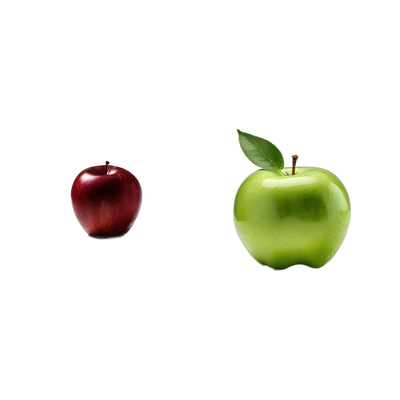
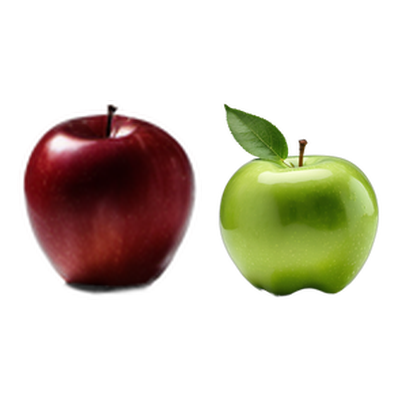
修正：手機左右滑動時右側欄位蓋住圖片欄（提高凍結欄 z-index）＋蘋果靠近不重疊＋西瓜三樣靠近排列

Changed region(s): [[0.06, 0.24, 0.51, 0.75], [0.54, 0.24, 0.96, 0.75]]

diff --git a/index.html b/index.html
@@ -23,15 +23,16 @@ th{background:#2e7d32;color:#fff;padding:10px 16px;font-size:13px;position:stick
 th.sub{background:#66bb6a;font-size:11px;font-weight:400;top:38px;z-index:2}
 td{padding:8px 16px;border-bottom:1px solid #eaf4ec;text-align:center;vertical-align:middle;background:#fff;white-space:nowrap}
 tr:nth-child(even) td{background:#f7fcf8}
-td.group{border-right:1px solid #edf7ef}
+td.group{border-right:1px solid #edf7ef;position:relative;z-index:0}
 /* 語言之間的粗分隔線 */
 .gsep{border-left:3px solid #a5d6a7!important}
 th.gsep{border-left:3px solid #14532d!important}
 td.first{border-right:3px solid #a5d6a7}
 /* 凍結：左邊第一欄（圖片＋詞）不動 */
 td.first,th:first-child{position:sticky;left:0;padding-left:10px;padding-right:10px;box-shadow:2px 0 5px rgba(30,90,50,.08)}
-td.first{background:#e8f5e9!important;font-weight:600;min-width:104px;z-index:1}
-thead th:first-child{z-index:4;background:#2e7d32;color:#fff;text-align:center}
+td.first{background:#e8f5e9!important;font-weight:600;min-width:104px;z-index:5}
+thead th:first-child{z-index:8;background:#2e7d32;color:#fff;text-align:center}
+.tablewrap{isolation:isolate}
 /* 圖片欄（凍結） */
 .imgcol{width:100px;min-width:100px;padding:4px!important}
 .thumb{display:inline-flex;align-items:center;justify-content:center;width:86px;height:86px;

diff --git a/t/五官.html b/t/五官.html
@@ -23,15 +23,16 @@ th{background:#2e7d32;color:#fff;padding:10px 16px;font-size:13px;position:stick
 th.sub{background:#66bb6a;font-size:11px;font-weight:400;top:38px;z-index:2}
 td{padding:8px 16px;border-bottom:1px solid #eaf4ec;text-align:center;vertical-align:middle;background:#fff;white-space:nowrap}
 tr:nth-child(even) td{background:#f7fcf8}
-td.group{border-right:1px solid #edf7ef}
+td.group{border-right:1px solid #edf7ef;position:relative;z-index:0}
 /* 語言之間的粗分隔線 */
 .gsep{border-left:3px solid #a5d6a7!important}
 th.gsep{border-left:3px solid #14532d!important}
 td.first{border-right:3px solid #a5d6a7}
 /* 凍結：左邊第一欄（圖片＋詞）不動 */
 td.first,th:first-child{position:sticky;left:0;padding-left:10px;padding-right:10px;box-shadow:2px 0 5px rgba(30,90,50,.08)}
-td.first{background:#e8f5e9!important;font-weight:600;min-width:104px;z-index:1}
-thead th:first-child{z-index:4;background:#2e7d32;color:#fff;text-align:center}
+td.first{background:#e8f5e9!important;font-weight:600;min-width:104px;z-index:5}
+thead th:first-child{z-index:8;background:#2e7d32;color:#fff;text-align:center}
+.tablewrap{isolation:isolate}
 /* 圖片欄（凍結） */
 .imgcol{width:100px;min-width:100px;padding:4px!important}
 .thumb{display:inline-flex;align-items:center;justify-content:center;width:86px;height:86px;

diff --git a/t/交通工具.html b/t/交通工具.html
@@ -23,15 +23,16 @@ th{background:#2e7d32;color:#fff;padding:10px 16px;font-size:13px;position:stick
 th.sub{background:#66bb6a;font-size:11px;font-weight:400;top:38px;z-index:2}
 td{padding:8px 16px;border-bottom:1px solid #eaf4ec;text-align:center;vertical-align:middle;background:#fff;white-space:nowrap}
 tr:nth-child(even) td{background:#f7fcf8}
-td.group{border-right:1px solid #edf7ef}
+td.group{border-right:1px solid #edf7ef;position:relative;z-index:0}
 /* 語言之間的粗分隔線 */
 .gsep{border-left:3px solid #a5d6a7!important}
 th.gsep{border-left:3px solid #14532d!important}
 td.first{border-right:3px solid #a5d6a7}
 /* 凍結：左邊第一欄（圖片＋詞）不動 */
 td.first,th:first-child{position:sticky;left:0;padding-left:10px;padding-right:10px;box-shadow:2px 0 5px rgba(30,90,50,.08)}
-td.first{background:#e8f5e9!important;font-weight:600;min-width:104px;z-index:1}
-thead th:first-child{z-index:4;background:#2e7d32;color:#fff;text-align:center}
+td.first{background:#e8f5e9!important;font-weight:600;min-width:104px;z-index:5}
+thead th:first-child{z-index:8;background:#2e7d32;color:#fff;text-align:center}
+.tablewrap{isolation:isolate}
 /* 圖片欄（凍結） */
 .imgcol{width:100px;min-width:100px;padding:4px!important}
 .thumb{display:inline-flex;align-items:center;justify-content:center;width:86px;height:86px;

diff --git a/t/公共設施.html b/t/公共設施.html
@@ -23,15 +23,16 @@ th{background:#2e7d32;color:#fff;padding:10px 16px;font-size:13px;position:stick
 th.sub{background:#66bb6a;font-size:11px;font-weight:400;top:38px;z-index:2}
 td{padding:8px 16px;border-bottom:1px solid #eaf4ec;text-align:center;vertical-align:middle;background:#fff;white-space:nowrap}
 tr:nth-child(even) td{background:#f7fcf8}
-td.group{border-right:1px solid #edf7ef}
+td.group{border-right:1px solid #edf7ef;position:relative;z-index:0}
 /* 語言之間的粗分隔線 */
 .gsep{border-left:3px solid #a5d6a7!important}
 th.gsep{border-left:3px solid #14532d!important}
 td.first{border-right:3px solid #a5d6a7}
 /* 凍結：左邊第一欄（圖片＋詞）不動 */
 td.first,th:first-child{position:sticky;left:0;padding-left:10px;padding-right:10px;box-shadow:2px 0 5px rgba(30,90,50,.08)}
-td.first{background:#e8f5e9!important;font-weight:600;min-width:104px;z-index:1}
-thead th:first-child{z-index:4;background:#2e7d32;color:#fff;text-align:center}
+td.first{background:#e8f5e9!important;font-weight:600;min-width:104px;z-index:5}
+thead th:first-child{z-index:8;background:#2e7d32;color:#fff;text-align:center}
+.tablewrap{isolation:isolate}
 /* 圖片欄（凍結） */
 .imgcol{width:100px;min-width:100px;padding:4px!important}
 .thumb{display:inline-flex;align-items:center;justify-content:center;width:86px;height:86px;

diff --git a/t/動物.html b/t/動物.html
@@ -23,15 +23,16 @@ th{background:#2e7d32;color:#fff;padding:10px 16px;font-size:13px;position:stick
 th.sub{background:#66bb6a;font-size:11px;font-weight:400;top:38px;z-index:2}
 td{padding:8px 16px;border-bottom:1px solid #eaf4ec;text-align:center;vertical-align:middle;background:#fff;white-space:nowrap}
 tr:nth-child(even) td{background:#f7fcf8}
-td.group{border-right:1px solid #edf7ef}
+td.group{border-right:1px solid #edf7ef;position:relative;z-index:0}
 /* 語言之間的粗分隔線 */
 .gsep{border-left:3px solid #a5d6a7!important}
 th.gsep{border-left:3px solid #14532d!important}
 td.first{border-right:3px solid #a5d6a7}
 /* 凍結：左邊第一欄（圖片＋詞）不動 */
 td.first,th:first-child{position:sticky;left:0;padding-left:10px;padding-right:10px;box-shadow:2px 0 5px rgba(30,90,50,.08)}
-td.first{background:#e8f5e9!important;font-weight:600;min-width:104px;z-index:1}
-thead th:first-child{z-index:4;background:#2e7d32;color:#fff;text-align:center}
+td.first{background:#e8f5e9!important;font-weight:600;min-width:104px;z-index:5}
+thead th:first-child{z-index:8;background:#2e7d32;color:#fff;text-align:center}
+.tablewrap{isolation:isolate}
 /* 圖片欄（凍結） */
 .imgcol{width:100px;min-width:100px;padding:4px!important}
 .thumb{display:inline-flex;align-items:center;justify-content:center;width:86px;height:86px;

diff --git a/t/包裝.html b/t/包裝.html
@@ -23,15 +23,16 @@ th{background:#2e7d32;color:#fff;padding:10px 16px;font-size:13px;position:stick
 th.sub{background:#66bb6a;font-size:11px;font-weight:400;top:38px;z-index:2}
 td{padding:8px 16px;border-bottom:1px solid #eaf4ec;text-align:center;vertical-align:middle;background:#fff;white-space:nowrap}
 tr:nth-child(even) td{background:#f7fcf8}
-td.group{border-right:1px solid #edf7ef}
+td.group{border-right:1px solid #edf7ef;position:relative;z-index:0}
 /* 語言之間的粗分隔線 */
 .gsep{border-left:3px solid #a5d6a7!important}
 th.gsep{border-left:3px solid #14532d!important}
 td.first{border-right:3px solid #a5d6a7}
 /* 凍結：左邊第一欄（圖片＋詞）不動 */
 td.first,th:first-child{position:sticky;left:0;padding-left:10px;padding-right:10px;box-shadow:2px 0 5px rgba(30,90,50,.08)}
-td.first{background:#e8f5e9!important;font-weight:600;min-width:104px;z-index:1}
-thead th:first-child{z-index:4;background:#2e7d32;color:#fff;text-align:center}
+td.first{background:#e8f5e9!important;font-weight:600;min-width:104px;z-index:5}
+thead th:first-child{z-index:8;background:#2e7d32;color:#fff;text-align:center}
+.tablewrap{isolation:isolate}
 /* 圖片欄（凍結） */
 .imgcol{width:100px;min-width:100px;padding:4px!important}
 .thumb{display:inline-flex;align-items:center;justify-content:center;width:86px;height:86px;

diff --git a/t/古董.html b/t/古董.html
@@ -23,15 +23,16 @@ th{background:#2e7d32;color:#fff;padding:10px 16px;font-size:13px;position:stick
 th.sub{background:#66bb6a;font-size:11px;font-weight:400;top:38px;z-index:2}
 td{padding:8px 16px;border-bottom:1px solid #eaf4ec;text-align:center;vertical-align:middle;background:#fff;white-space:nowrap}
 tr:nth-child(even) td{background:#f7fcf8}
-td.group{border-right:1px solid #edf7ef}
+td.group{border-right:1px solid #edf7ef;position:relative;z-index:0}
 /* 語言之間的粗分隔線 */
 .gsep{border-left:3px solid #a5d6a7!important}
 th.gsep{border-left:3px solid #14532d!important}
 td.first{border-right:3px solid #a5d6a7}
 /* 凍結：左邊第一欄（圖片＋詞）不動 */
 td.first,th:first-child{position:sticky;left:0;padding-left:10px;padding-right:10px;box-shadow:2px 0 5px rgba(30,90,50,.08)}
-td.first{background:#e8f5e9!important;font-weight:600;min-width:104px;z-index:1}
-thead th:first-child{z-index:4;background:#2e7d32;color:#fff;text-align:center}
+td.first{background:#e8f5e9!important;font-weight:600;min-width:104px;z-index:5}
+thead th:first-child{z-index:8;background:#2e7d32;color:#fff;text-align:center}
+.tablewrap{isolation:isolate}
 /* 圖片欄（凍結） */
 .imgcol{width:100px;min-width:100px;padding:4px!important}
 .thumb{display:inline-flex;align-items:center;justify-content:center;width:86px;height:86px;

diff --git a/t/場所.html b/t/場所.html
@@ -23,15 +23,16 @@ th{background:#2e7d32;color:#fff;padding:10px 16px;font-size:13px;position:stick
 th.sub{background:#66bb6a;font-size:11px;font-weight:400;top:38px;z-index:2}
 td{padding:8px 16px;border-bottom:1px solid #eaf4ec;text-align:center;vertical-align:middle;background:#fff;white-space:nowrap}
 tr:nth-child(even) td{background:#f7fcf8}
-td.group{border-right:1px solid #edf7ef}
+td.group{border-right:1px solid #edf7ef;position:relative;z-index:0}
 /* 語言之間的粗分隔線 */
 .gsep{border-left:3px solid #a5d6a7!important}
 th.gsep{border-left:3px solid #14532d!important}
 td.first{border-right:3px solid #a5d6a7}
 /* 凍結：左邊第一欄（圖片＋詞）不動 */
 td.first,th:first-child{position:sticky;left:0;padding-left:10px;padding-right:10px;box-shadow:2px 0 5px rgba(30,90,50,.08)}
-td.first{background:#e8f5e9!important;font-weight:600;min-width:104px;z-index:1}
-thead th:first-child{z-index:4;background:#2e7d32;color:#fff;text-align:center}
+td.first{background:#e8f5e9!important;font-weight:600;min-width:104px;z-index:5}
+thead th:first-child{z-index:8;background:#2e7d32;color:#fff;text-align:center}
+.tablewrap{isolation:isolate}
 /* 圖片欄（凍結） */
 .imgcol{width:100px;min-width:100px;padding:4px!important}
 .thumb{display:inline-flex;align-items:center;justify-content:center;width:86px;height:86px;

diff --git a/t/夜市小吃.html b/t/夜市小吃.html
@@ -23,15 +23,16 @@ th{background:#2e7d32;color:#fff;padding:10px 16px;font-size:13px;position:stick
 th.sub{background:#66bb6a;font-size:11px;font-weight:400;top:38px;z-index:2}
 td{padding:8px 16px;border-bottom:1px solid #eaf4ec;text-align:center;vertical-align:middle;background:#fff;white-space:nowrap}
 tr:nth-child(even) td{background:#f7fcf8}
-td.group{border-right:1px solid #edf7ef}
+td.group{border-right:1px solid #edf7ef;position:relative;z-index:0}
 /* 語言之間的粗分隔線 */
 .gsep{border-left:3px solid #a5d6a7!important}
 th.gsep{border-left:3px solid #14532d!important}
 td.first{border-right:3px solid #a5d6a7}
 /* 凍結：左邊第一欄（圖片＋詞）不動 */
 td.first,th:first-child{position:sticky;left:0;padding-left:10px;padding-right:10px;box-shadow:2px 0 5px rgba(30,90,50,.08)}
-td.first{background:#e8f5e9!important;font-weight:600;min-width:104px;z-index:1}
-thead th:first-child{z-index:4;background:#2e7d32;color:#fff;text-align:center}
+td.first{background:#e8f5e9!important;font-weight:600;min-width:104px;z-index:5}
+thead th:first-child{z-index:8;background:#2e7d32;color:#fff;text-align:center}
+.tablewrap{isolation:isolate}
 /* 圖片欄（凍結） */
 .imgcol{width:100px;min-width:100px;padding:4px!important}
 .thumb{display:inline-flex;align-items:center;justify-content:center;width:86px;height:86px;

diff --git a/t/娛樂.html b/t/娛樂.html
@@ -23,15 +23,16 @@ th{background:#2e7d32;color:#fff;padding:10px 16px;font-size:13px;position:stick
 th.sub{background:#66bb6a;font-size:11px;font-weight:400;top:38px;z-index:2}
 td{padding:8px 16px;border-bottom:1px solid #eaf4ec;text-align:center;vertical-align:middle;background:#fff;white-space:nowrap}
 tr:nth-child(even) td{background:#f7fcf8}
-td.group{border-right:1px solid #edf7ef}
+td.group{border-right:1px solid #edf7ef;position:relative;z-index:0}
 /* 語言之間的粗分隔線 */
 .gsep{border-left:3px solid #a5d6a7!important}
 th.gsep{border-left:3px solid #14532d!important}
 td.first{border-right:3px solid #a5d6a7}
 /* 凍結：左邊第一欄（圖片＋詞）不動 */
 td.first,th:first-child{position:sticky;left:0;padding-left:10px;padding-right:10px;box-shadow:2px 0 5px rgba(30,90,50,.08)}
-td.first{background:#e8f5e9!important;font-weight:600;min-width:104px;z-index:1}
-thead th:first-child{z-index:4;background:#2e7d32;color:#fff;text-align:center}
+td.first{background:#e8f5e9!important;font-weight:600;min-width:104px;z-index:5}
+thead th:first-child{z-index:8;background:#2e7d32;color:#fff;text-align:center}
+.tablewrap{isolation:isolate}
 /* 圖片欄（凍結） */
 .imgcol{width:100px;min-width:100px;padding:4px!important}
 .thumb{display:inline-flex;align-items:center;justify-content:center;width:86px;height:86px;

diff --git a/t/季節.html b/t/季節.html
@@ -23,15 +23,16 @@ th{background:#2e7d32;color:#fff;padding:10px 16px;font-size:13px;position:stick
 th.sub{background:#66bb6a;font-size:11px;font-weight:400;top:38px;z-index:2}
 td{padding:8px 16px;border-bottom:1px solid #eaf4ec;text-align:center;vertical-align:middle;background:#fff;white-space:nowrap}
 tr:nth-child(even) td{background:#f7fcf8}
-td.group{border-right:1px solid #edf7ef}
+td.group{border-right:1px solid #edf7ef;position:relative;z-index:0}
 /* 語言之間的粗分隔線 */
 .gsep{border-left:3px solid #a5d6a7!important}
 th.gsep{border-left:3px solid #14532d!important}
 td.first{border-right:3px solid #a5d6a7}
 /* 凍結：左邊第一欄（圖片＋詞）不動 */
 td.first,th:first-child{position:sticky;left:0;padding-left:10px;padding-right:10px;box-shadow:2px 0 5px rgba(30,90,50,.08)}
-td.first{background:#e8f5e9!important;font-weight:600;min-width:104px;z-index:1}
-thead th:first-child{z-index:4;background:#2e7d32;color:#fff;text-align:center}
+td.first{background:#e8f5e9!important;font-weight:600;min-width:104px;z-index:5}
+thead th:first-child{z-index:8;background:#2e7d32;color:#fff;text-align:center}
+.tablewrap{isolation:isolate}
 /* 圖片欄（凍結） */
 .imgcol{width:100px;min-width:100px;padding:4px!important}
 .thumb{display:inline-flex;align-items:center;justify-content:center;width:86px;height:86px;

diff --git a/t/家具.html b/t/家具.html
@@ -23,15 +23,16 @@ th{background:#2e7d32;color:#fff;padding:10px 16px;font-size:13px;position:stick
 th.sub{background:#66bb6a;font-size:11px;font-weight:400;top:38px;z-index:2}
 td{padding:8px 16px;border-bottom:1px solid #eaf4ec;text-align:center;vertical-align:middle;background:#fff;white-space:nowrap}
 tr:nth-child(even) td{background:#f7fcf8}
-td.group{border-right:1px solid #edf7ef}
+td.group{border-right:1px solid #edf7ef;position:relative;z-index:0}
 /* 語言之間的粗分隔線 */
 .gsep{border-left:3px solid #a5d6a7!important}
 th.gsep{border-left:3px solid #14532d!important}
 td.first{border-right:3px solid #a5d6a7}
 /* 凍結：左邊第一欄（圖片＋詞）不動 */
 td.first,th:first-child{position:sticky;left:0;padding-left:10px;padding-right:10px;box-shadow:2px 0 5px rgba(30,90,50,.08)}
-td.first{background:#e8f5e9!important;font-weight:600;min-width:104px;z-index:1}
-thead th:first-child{z-index:4;background:#2e7d32;color:#fff;text-align:center}
+td.first{background:#e8f5e9!important;font-weight:600;min-width:104px;z-index:5}
+thead th:first-child{z-index:8;background:#2e7d32;color:#fff;text-align:center}
+.tablewrap{isolation:isolate}
 /* 圖片欄（凍結） */
 .imgcol{width:100px;min-width:100px;padding:4px!important}
 .thumb{display:inline-flex;align-items:center;justify-content:center;width:86px;height:86px;
